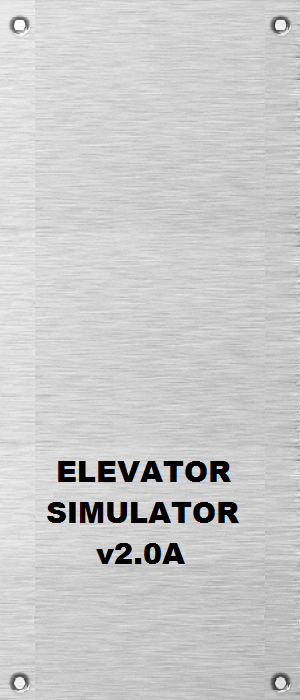
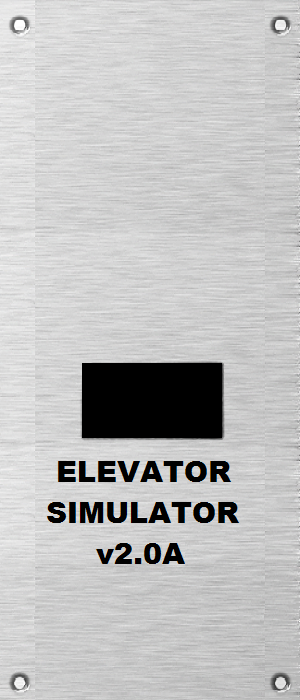
MovinDot

Changed region(s): [[0.27, 0.51, 0.75, 0.63]]

diff --git a/ElevatorSim/Main.cpp b/ElevatorSim/Main.cpp
@@ -7,32 +7,41 @@
 #include <allegro5\allegro_primitives.h>
 #include <allegro5\allegro_font.h>
 #include <allegro5\allegro_ttf.h>
+#include "Elevator.h"
+
+const int NumFloors = 4;
+
+void InitElevator(Elevatorm elevatorm[], int size);
+void DrawElevator(Elevatorm elevatorm[], int size);
+void FireElevator(Elevatorm elevatorm[], int size);
+void UpdateElevator(Elevatorm elevatorm[], int size);
 
 int main(void)
 {
+	Elevatorm elevatorm[5];
+
 	int width = 900;
 	int height = 700;
 
+	const int FPS = 60;
 	bool done = false;
 	bool draw = true;
 	int pos_x = width / 2;
 	int pos_y = height / 2;
 
 	int liftH = 0;
-	int liftW = 0; 
+	int liftW = 0;
 	bool floor2 = false;
 
-		ALLEGRO_DISPLAY *display = NULL;
+	ALLEGRO_DISPLAY *display = NULL;
 	ALLEGRO_EVENT_QUEUE *event_queue = NULL;
 	ALLEGRO_BITMAP *But1 = NULL;
 	ALLEGRO_BITMAP *But2 = NULL;
 	ALLEGRO_BITMAP *But3 = NULL;
 	ALLEGRO_BITMAP *But4 = NULL;
 	ALLEGRO_BITMAP *ButUp1 = NULL;
-	ALLEGRO_BITMAP *ButUp2= NULL;
+	ALLEGRO_BITMAP *ButUp2 = NULL;
 	ALLEGRO_BITMAP *ButUp3 = NULL;
-	ALLEGRO_BITMAP *ButUp4 = NULL;
-	ALLEGRO_BITMAP *ButDown1 = NULL;
 	ALLEGRO_BITMAP *ButDown2 = NULL;
 	ALLEGRO_BITMAP *ButDown3 = NULL;
 	ALLEGRO_BITMAP *ButDown4 = NULL;
@@ -53,10 +62,11 @@ int main(void)
 	ALLEGRO_BITMAP *Elevator = NULL;
 
 	ALLEGRO_SAMPLE *sample = NULL;
+	ALLEGRO_SAMPLE *alarm = NULL;
 
+	ALLEGRO_TIMER *timer = NULL;
+	ALLEGRO_EVENT ev;
 
-
-	
 	if (!al_init())										//initialize Allegro
 		return -1;
 
@@ -83,7 +93,7 @@ int main(void)
 	Elevator = al_load_bitmap("Elevator.png");
 	LiftOpen = al_load_bitmap("LiftOpen.png");
 	Liftclose = al_load_bitmap("LiftClose.png");
-	
+
 	But1 = al_load_bitmap("ElevatorButton1.png");
 	But2 = al_load_bitmap("ElevatorButton2.png");
 	But3 = al_load_bitmap("ElevatorButton3.png");
@@ -92,9 +102,7 @@ int main(void)
 	ButUp1 = al_load_bitmap("ElevatorButtonUp.png");
 	ButUp2 = al_load_bitmap("ElevatorButtonUp.png");
 	ButUp3 = al_load_bitmap("ElevatorButtonUp.png");
-	ButUp4 = al_load_bitmap("ElevatorButtonUp.png");
-
-	ButDown1 = al_load_bitmap("ElevatorButtonDown.png");
+	
 	ButDown2 = al_load_bitmap("ElevatorButtonDown.png");
 	ButDown3 = al_load_bitmap("ElevatorButtonDown.png");
 	ButDown4 = al_load_bitmap("ElevatorButtonDown.png");
@@ -104,24 +112,30 @@ int main(void)
 	Close = al_load_bitmap("ElevatorButtonClose.png");
 	Alarm = al_load_bitmap("ElevatorButtonA.png");
 	Panel1 = al_load_bitmap("MetalPlate2.png");
-	Panel2= al_load_bitmap("MetalPlate2.png");
-	panel3= al_load_bitmap("MetalPlate2.png");
-	Panel4= al_load_bitmap("MetalPlate2.png");
+	Panel2 = al_load_bitmap("MetalPlate2.png");
+	panel3 = al_load_bitmap("MetalPlate2.png");
+	Panel4 = al_load_bitmap("MetalPlate2.png");
 
 	sample = al_load_sample("Music.wav");
+	alarm = al_load_sample("Alarm.wav");
 
 	liftH = al_get_bitmap_height(Liftclose);
 	liftW = al_get_bitmap_width(Liftclose);
-	
+
 	int x = 440 - liftW / 2;
 	int y = 700 - liftH - 100;
 
+	InitElevator(elevatorm, NumFloors);
+	
 	event_queue = al_create_event_queue();
-
+	timer = al_create_timer(1.0 / FPS);
 	al_register_event_source(event_queue, al_get_mouse_event_source());
+	al_register_event_source(event_queue, al_get_timer_event_source(timer));
 	al_register_event_source(event_queue, al_get_display_event_source(display));
 
+
 	//al_hide_mouse_cursor(display);
+	al_start_timer(timer);
 	while (!done)
 	{
 		al_draw_line(0, 150, 600, 150, al_map_rgb(255, 0, 0), 2);
@@ -129,15 +143,15 @@ int main(void)
 		al_draw_line(0, 450, 600, 450, al_map_rgb(255, 0, 0), 2);
 		al_draw_line(0, 600, 600, 600, al_map_rgb(255, 0, 0), 2);
 		al_draw_line(465, 0, 465, 700, al_map_rgb(121, 121, 121), 200);
-		al_draw_bitmap(Elevator, x, y, 0);
+		//al_draw_bitmap(Elevator, x, y, 0);
 
 		al_draw_bitmap(Liftclose, 250 - liftW / 2, 700 - liftH - 100, 0);
 		al_draw_bitmap(Liftclose, 250 - liftW / 2, 550 - liftH - 100, 0);
 		al_draw_bitmap(Liftclose, 250 - liftW / 2, 400 - liftH - 100, 0);
 		al_draw_bitmap(Liftclose, 250 - liftW / 2, 250 - liftH - 100, 0);
-		al_draw_bitmap(Plate, 600, 0,0);
+		al_draw_bitmap(Plate, 600, 0, 0);
 
-		al_draw_bitmap(But1,610,75,0);
+		al_draw_bitmap(But1, 610, 75, 0);
 		al_draw_bitmap(But2, 750, 75, 0);
 
 		al_draw_bitmap(But3, 610, 140, 0);
@@ -156,26 +170,30 @@ int main(void)
 		al_play_sample(sample, 1.0, 0.0, 1.0, ALLEGRO_PLAYMODE_LOOP, NULL);
 		//al_rest(10.0);
 
-		al_draw_bitmap(Panel1,0, 450, 0);
+		al_draw_bitmap(Panel1, 0, 450, 0);
 		al_draw_bitmap(ButUp1, 10, 450, 0);
-		al_draw_bitmap(ButDown1, 10, 510, 0);
-
+		
 		al_draw_bitmap(Panel1, 0, 300, 0);
 		al_draw_bitmap(ButUp2, 10, 300, 0);
-		al_draw_bitmap(ButDown2, 10, 360,0);
+		al_draw_bitmap(ButDown2, 10, 360, 0);
 
 		al_draw_bitmap(Panel1, 0, 150, 0);
 		al_draw_bitmap(ButUp3, 10, 140, 0);
 		al_draw_bitmap(ButDown3, 10, 200, 0);
-		
-		al_draw_bitmap(Panel1, 0,0, 0);
-		al_draw_bitmap(ButUp4, 10, 0,0); 
-		al_draw_bitmap(ButDown4, 10, 60, 0);
-							
-		ALLEGRO_EVENT ev;
-		al_wait_for_event(event_queue, &ev);
 
-		if (ev.type == ALLEGRO_EVENT_DISPLAY_CLOSE)
+		al_draw_bitmap(Panel1, 0, 0, 0);
+		al_draw_bitmap(ButDown4, 10, 60, 0);
+
+		//ALLEGRO_EVENT ev;
+		al_wait_for_event(event_queue, &ev);
+		if (ev.type == ALLEGRO_EVENT_TIMER)
+		{
+			draw = true;
+
+			UpdateElevator(elevatorm, NumFloors);
+
+		}
+		else if (ev.type == ALLEGRO_EVENT_DISPLAY_CLOSE)
 		{
 			done = true;
 		}
@@ -183,7 +201,10 @@ int main(void)
 		{
 
 			if (ev.mouse.button & 1 && pos_x > 630 && pos_x < 720 && pos_y >90 && pos_y < 140)
-				al_draw_bitmap(LiftOpen, 250 - liftW / 2, 700 - liftH - 100, 0);// but1
+			{
+				al_draw_bitmap(LiftOpen, 250 - liftW / 2, 700 - liftH - 100, 0);
+				//al_rest(5);
+			}// but1
 
 			else if (ev.mouse.button & 1 && pos_x>770 && pos_x < 860 && pos_y>90 && pos_y < 140)
 			{
@@ -194,55 +215,53 @@ int main(void)
 				al_rest(5);
 			} //but2
 
-			else if (ev.mouse.button & 1 && pos_x>630 && pos_x<720 && pos_y >160 && pos_y < 210)
+			else if (ev.mouse.button & 1 && pos_x>630 && pos_x < 720 && pos_y >160 && pos_y < 210)
 			{
 				al_draw_bitmap(LiftOpen, 250 - liftW / 2, 400 - liftH - 100, 0);
 				al_draw_bitmap(Black, x, y, 0);
 				al_draw_bitmap(Elevator, x, y - 300, 1);
 				al_flip_display();
-				al_rest(5);
+				//al_rest(5);
 			} // but3
 
-			else if (ev.mouse.button & 1 && pos_x>770 && pos_x<860 && pos_y>160 && pos_y<210)
+			else if (ev.mouse.button & 1 && pos_x>770 && pos_x < 860 && pos_y>160 && pos_y < 210)
 			{
-				al_draw_bitmap(LiftOpen, 250 - liftW / 2, 250 - liftH - 100, 0);
+				FireElevator(elevatorm, NumFloors,);
+				
+				/*al_draw_bitmap(LiftOpen, 250 - liftW / 2, 250 - liftH - 100, 0);
 				al_draw_bitmap(Black, x, y, 0);
 				al_draw_bitmap(Elevator, x, y - 450, 1);
 				al_flip_display();
-				al_rest(5);
+				al_rest(5);*/
 			} // but4
 
-			else if (ev.mouse.button & 1 && pos_x>630 && pos_x<720 && pos_y >230 && pos_y < 280)
+			else if (ev.mouse.button & 1 && pos_x>630 && pos_x < 720 && pos_y >230 && pos_y < 280)
 				done = true;// open
 
-			else if (ev.mouse.button & 1 && pos_x>770 && pos_x<860 && pos_y>230&& pos_y<280)
+			else if (ev.mouse.button & 1 && pos_x>770 && pos_x < 860 && pos_y>230 && pos_y < 280)
 				done = true;// close
 
-			else if (ev.mouse.button & 1 && pos_x>700 && pos_x<800 && pos_y> 295 && pos_y<345)
-				done = true;// Alarm
+			else if (ev.mouse.button & 1 && pos_x>700 && pos_x < 800 && pos_y> 295 && pos_y < 345)
+			{
+				//al_play_sample_instance(alarm);// Alarm
+			}
 
-			else if (ev.mouse.button & 1 && pos_x>20 && pos_x<125 && pos_y> 470 && pos_y<515)
+			else if (ev.mouse.button & 1 && pos_x>20 && pos_x < 125 && pos_y> 470 && pos_y < 515)
 				done = true;// up1
 
-			else if (ev.mouse.button & 1 && pos_x>20 && pos_x<125 && pos_y> 530 && pos_y<575)
-				done = true;// down1
-
-			else if (ev.mouse.button & 1 && pos_x>20 && pos_x<125 && pos_y> 320 && pos_y<365)
+			else if (ev.mouse.button & 1 && pos_x>20 && pos_x < 125 && pos_y> 320 && pos_y < 365)
 				done = true;// up2
 
-			else if (ev.mouse.button & 1 && pos_x>20 && pos_x<125 && pos_y> 380 && pos_y<425)
+			else if (ev.mouse.button & 1 && pos_x>20 && pos_x < 125 && pos_y> 380 && pos_y < 425)
 				done = true;// down2
 
-			else if (ev.mouse.button & 1 && pos_x>20 && pos_x<125 && pos_y> 160 && pos_y<205)
+			else if (ev.mouse.button & 1 && pos_x>20 && pos_x < 125 && pos_y> 160 && pos_y < 205)
 				done = true;// up3
 
-			else if (ev.mouse.button & 1 && pos_x>20 && pos_x<125 && pos_y> 220 && pos_y<265)
+			else if (ev.mouse.button & 1 && pos_x>20 && pos_x < 125 && pos_y> 220 && pos_y < 265)
 				done = true;// down3
 
-			else if (ev.mouse.button & 1 && pos_x>20 && pos_x<125 && pos_y> 25 && pos_y<70)
-				done = true;// up4
-
-			else if (ev.mouse.button & 1 && pos_x>20 && pos_x<125 && pos_y> 85 && pos_y<130)
+			else if (ev.mouse.button & 1 && pos_x>20 && pos_x < 125 && pos_y> 85 && pos_y < 130)
 				done = true;// down4
 
 
@@ -254,18 +273,25 @@ int main(void)
 			pos_x = ev.mouse.x;
 			pos_y = ev.mouse.y;
 		}
-
-	/*		while (floor2 && liftH != 115)
-			{
+		/*		while (floor2 && liftH != 115)
+				{
 				liftH + 10;
 				al_draw_bitmap(Liftclose, 400 - liftW / 2, 700 - liftH - 100, 0);
-			}// but2
-		
-		/*if (draw && pos_x<200)
-			al_draw_filled_rectangle(pos_x, pos_y, pos_x + 30, pos_y + 30, al_map_rgb(255, 0, 255));*/
+				}// but2
+
+				/*if (draw && pos_x<200)
+				al_draw_filled_rectangle(pos_x, pos_y, pos_x + 30, pos_y + 30, al_map_rgb(255, 0, 255));*/
 		al_flip_display();
 		al_clear_to_color(al_map_rgb(0, 0, 0));
-	}
+		if (draw && al_is_event_queue_empty(event_queue))
+		{
+			draw = false;
+         	DrawElevator(elevatorm, NumFloors);
+
+			al_flip_display();
+			al_clear_to_color(al_map_rgb(0, 0, 0));
+		}
+}
 	al_destroy_bitmap(But1);
 	al_destroy_bitmap(But2);
 	al_destroy_bitmap(But3);
@@ -273,8 +299,6 @@ int main(void)
 	al_destroy_bitmap(ButUp1);
 	al_destroy_bitmap(ButUp2);
 	al_destroy_bitmap(ButUp3);
-	al_destroy_bitmap(ButUp4);
-	al_destroy_bitmap(ButDown1);
 	al_destroy_bitmap(ButDown2);
 	al_destroy_bitmap(ButDown3);
 	al_destroy_bitmap(ButDown4);
@@ -284,8 +308,59 @@ int main(void)
 
 	al_destroy_sample(sample);
 
-	al_destroy_event_queue(event_queue);
-	al_destroy_display(display);						//destroy our display object
 
-	return 0;
+	al_destroy_event_queue(event_queue);
+	if (ev.type == ALLEGRO_EVENT_TIMER)
+	{
+		draw = true;
+		al_destroy_display(display);						//destroy our display object
+
+		return 0;
+	}					//destroy our display object
+}
+
+void InitElevator(Elevatorm elevatorm[], int size)
+{
+	for (int i = 0; i < size; i++)
+	{
+		elevatorm[i].ID = ELEVATORM;
+		elevatorm[i].speed = 10;
+		elevatorm[i].up = false;
+	}
+}
+
+void DrawElevator(Elevatorm elevatorm[], int size)
+{
+	for (int i = 0; i < size; i++)
+	{
+		if (elevatorm[i].up)
+		{
+			al_draw_filled_circle(elevatorm[i].x, elevatorm[i].y, 5, al_map_rgb(255, 0, 0));
+		}
+			}
+}
+void FireElevator(Elevatorm elevatorm[], int size)
+{
+	for (int i = 0; i < size; i++)
+	{
+		if (!elevatorm[i].up)
+		{
+			elevatorm[i].x = 100;
+			elevatorm[i].y = 100;
+			elevatorm[i].up = true;
+			break;
+		}
+	}
+}
+void UpdateElevator(Elevatorm elevatorm[], int size)
+{
+	for (int i = 0; i < size; i++)
+	{
+		if (elevatorm[i].up)
+		{
+			elevatorm[i].x += elevatorm[i].speed;
+			if (elevatorm[i].x > 200)
+				elevatorm[i].up = 200;
+		}
+	}
 }

diff --git a/ElevatorSim/Elevator.h b/ElevatorSim/Elevator.h
@@ -1,0 +1,11 @@
+//Object IDs
+enum IDS{ ELEVATORM };
+
+struct Elevatorm
+{
+	int ID;
+	int x;
+	int y;
+	bool up;
+	int speed;
+};
